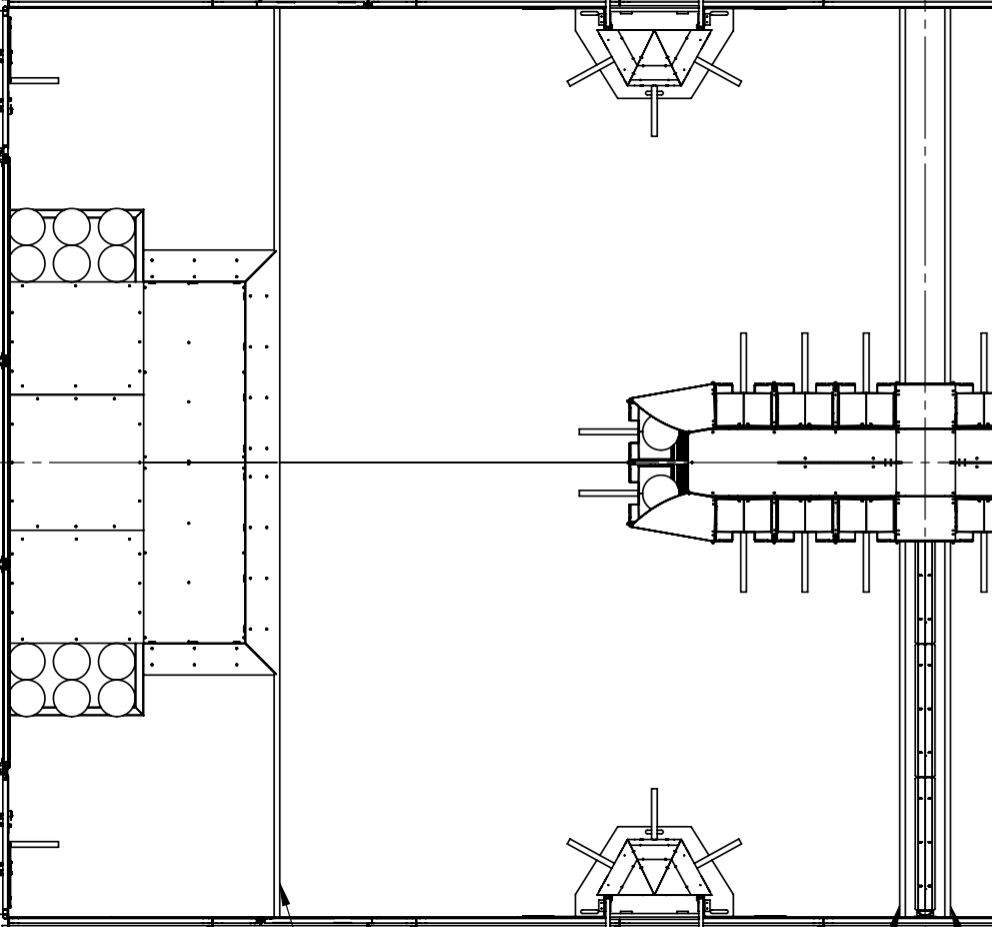
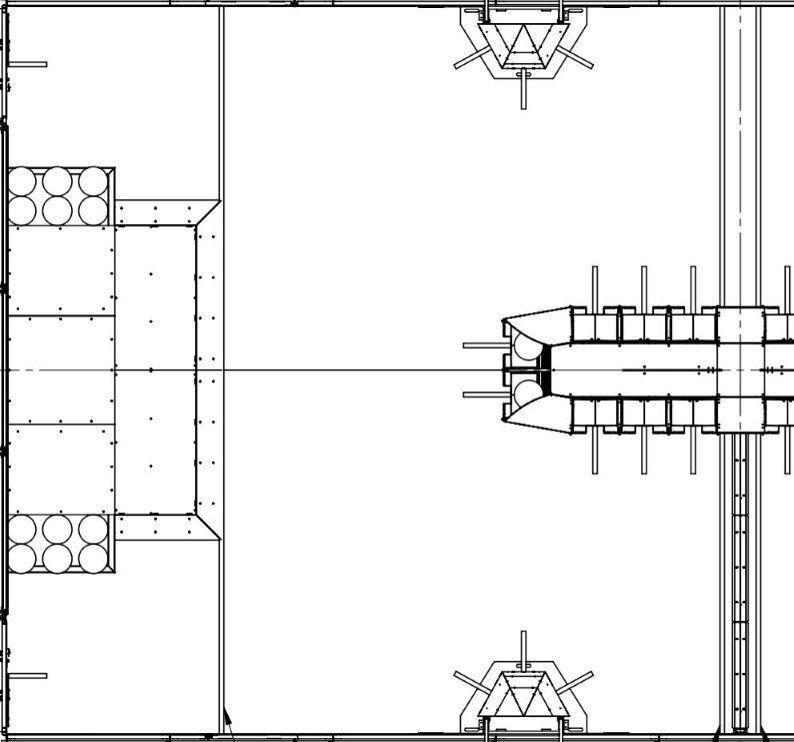
field smaller to fit on screen - not auto adjusting

diff --git a/src/test/java/BezierTest.java b/src/test/java/BezierTest.java
@@ -1,4 +1,3 @@
-import bezier.Bezier;
 import bezier.Point;
 import org.junit.jupiter.api.Test;
 
@@ -11,14 +10,14 @@ public class BezierTest {
         controlPoints.add(new Point(0, 0, true));
         controlPoints.add(new Point(60, 0, true));
 
-        var path = Bezier.generateAll(controlPoints); // todo
-
-        for (Point point : path) {
-            System.out.println(point.getTargetVelocity() + "\n"
-                    + point.getLeftVel() + "\n"
-                    + point.getLeftVelLinear() + "\n"
-                    + point.getLeftPos() + "\n"
-            );
-        }
+//        var path = Bezier.generateAll(controlPoints); // todo
+//
+//        for (Point point : path) {
+//            System.out.println(point.getTargetVelocity() + "\n"
+//                    + point.getLeftVel() + "\n"
+//                    + point.getLeftVelLinear() + "\n"
+//                    + point.getLeftPos() + "\n"
+//            );
+//        }
     }
 }

diff --git a/src/main/java/ui/UIController.java b/src/main/java/ui/UIController.java
@@ -81,7 +81,7 @@ public class UIController {
     @FXML
     private ComboBox<String> cfgDrawWheelType;
 
-    private static Image backgroundImage = new Image("images/2019ColorFromManual.JPG");
+    private static Image backgroundImage = new Image("images/2019BWFromFeildDrawing.JPG");
     private ArrayList<ArrayList<PointRow>> previousStates; //for undo/redo
     private ArrayList<PointRow> rows;
     private int nextIndex,
